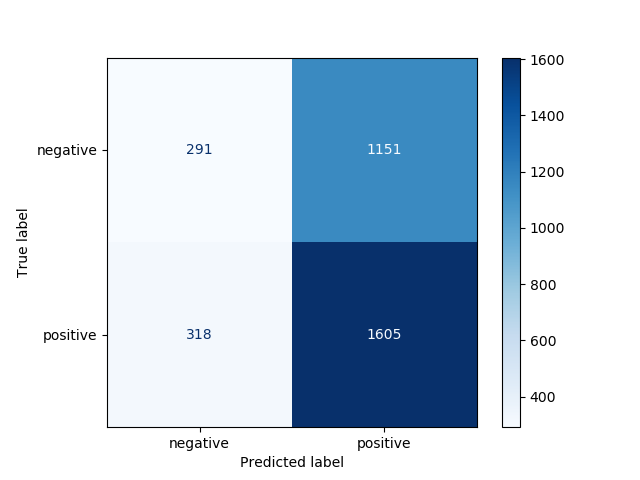
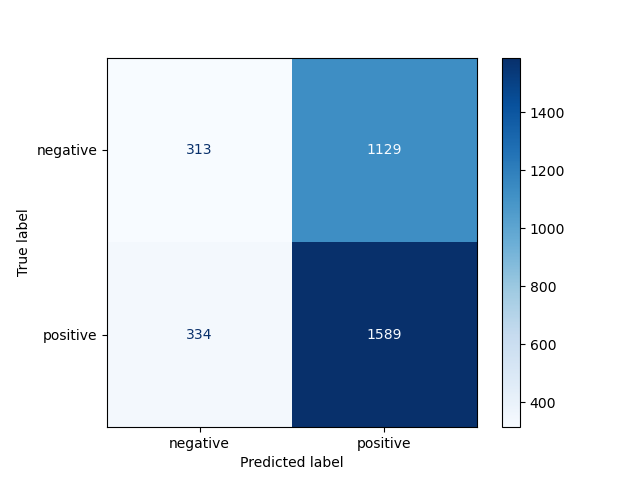
First final code state (hopefully the last..)

diff --git a/experiment-1/financial/test-ensemble-model.py b/experiment-1/financial/test-ensemble-model.py
@@ -172,24 +172,27 @@ def get_testing_data(dataset):
 
 
 if __name__ == '__main__':
-    dataset = 0 # TODO CHANGE IF YOU WANT TO TEST A DIFF DATASET
-    bilstm_input, ann_input, y_true = get_testing_data(dataset)
+
     print('preprocessing done.')
 
     filepath = 'experiment-1/models/binary_hybrid_larger.h5'
     ensemble_model = load_model(filepath=filepath)
-    print('loaded the model')
-    print(bilstm_input.shape)
-    print(ann_input.shape)
 
-    y_pred = ensemble_model.predict([bilstm_input, ann_input])
-    y_pred = [0 if pred[0] < 0.5 else 1 for pred in y_pred]
+    for dataset in range(0,3):
+        bilstm_input, ann_input, y_true = get_testing_data(dataset)
+        print('preprocessing done.')
+        print('loaded the model')
+        print(bilstm_input.shape)
+        print(ann_input.shape)
 
-    cm = confusion_matrix(y_true, y_pred)
-    display = ConfusionMatrixDisplay(confusion_matrix=cm, display_labels=['negative', 'positive'])
-    display.plot(cmap=plt.cm.Blues)
-    plt.savefig(f'experiment-1/financial/results/ensemble_model_financial{dataset}_confusion_matrix.png')
+        y_pred = ensemble_model.predict([bilstm_input, ann_input])
+        y_pred = [0 if pred[0] < 0.5 else 1 for pred in y_pred]
 
-    print("=== Classification Report ===")
-    print(classification_report(y_true, y_pred, zero_division=0), '\n')
+        cm = confusion_matrix(y_true, y_pred)
+        display = ConfusionMatrixDisplay(confusion_matrix=cm, display_labels=['negative', 'positive'])
+        display.plot(cmap=plt.cm.Blues)
+        plt.savefig(f'experiment-1/financial/results/ensemble/ensemble_model_financial{dataset}_confusion_matrix.png')
+
+        print("=== Classification Report ===")
+        print(classification_report(y_true, y_pred, zero_division=0), '\n')
 

diff --git a/README.md b/README.md
@@ -6,7 +6,7 @@ Initial Commit Grabbed from Code Ocean.. Adapted Dockerfile -> Conda environment
 
 ```shell
 conda env create -f environment.yml
-conda activate 635Proj
+conda activate 635ProjectGroup3
 ```
 This may take 10-15 minutes.
 
@@ -30,13 +30,101 @@ Aftewards run:
 If you aren't on linux, follow the quick command line install links at the bottom of this page.
 https://docs.anaconda.com/free/miniconda/index.html#latest-miniconda-installer-links
 
-# Data
+
+# Preprocessing Data
+All extra data that we used for this project is small enough to be version controlled, including all preprocessed files.
+
+Financial news is processed at runtime, the twitter dataset is processed prior. You can redo this preprocessing via running the notebook: experiment-1/tweets/preprocessingtweets.ipynb
+
+All data should be version controlled and therefore does not need to be re-processed. 
+
+# Data and Model downloads
 The data is too large to be stored on git. You must download it manually from my super cool awesome google drive. Wow!
 
-https://drive.google.com/drive/folders/19UZ1r7dx4vNYeFTAc1blgahwxlMmR_ig?usp=drive_link 
+https://drive.google.com/drive/folders/1JATZ8WxXtZSCohncTbGh3T1IZhap6XMb?usp=sharing
 
-(If you dont have access please ping me...)
+(If you dont have access please let us know)
+
+It contains 3 folders. 
+
+1) Data must go into the SOURCE directory.
+
+2) Move the contents from the folder named:  Experiment 1 Models into experiment-1/models
+
+3) Move the contents from the foler named: Experiment 2 Models into experiment-2/models
+
+## Can't Download? Generate the models:
 
 
-# Experiments
+In order to generated the binary_hybrid_larger.h5 model, run 
+```shell
+python3 code/train_binary_hybrid.py
+``` 
+it will save the model to: results/binary_hybrid_larger.h5 move the .h5 file into the experiment-1/models folder.
+
+In order to get ready for experiment 2... 
+Run the notebook: experiment-2/gensim_models.ipynb
+Then run: 
+```shell
+python3 experiment-2/train_at_lstm.py
+```
+
+Both of these may take 10 minutes to run.
+
+# Running the models and Experiments
+
+## Experiment 1
+
+### Twitter 
+
+May take 3-4 minutes to run.
+
+```shell
+python3 experiment-1/tweets/test-ensemble-model.py
+```
+
+Results saved to:  experiment-1/results/binary_tweets_hybrid_classified.png
+
+### Financial News
+
+May take 1-2 minutes to run.
+
+```shell
+python3 experiment-1/financial/test-ensemble-model.py
+```
+Results saved to: experiment-1/financial/results/ensemble
+
+
+## Experiment 2
+
+### AT-LSTM Training and Validation on Movie Reviews:
+
+This will run AND train the AT-LSTM model on movie reviews. Results saved to: experiment-2/results/atlstm_validation_confusion_matrix.png
+
+```shell
+python3 experiment-2/train_at_lstm.py
+```
+Results saved to: experiment-2/results/atlstm_validation_confusion_matrix.png
+
+
+### Twitter Dataset
+
+Tests the AT-LSTM on twitter dataset. 10,000 random entries.
+
+May take 3-5 minutes to run.
+
+```shell
+python3 experiment-2/test-atlstm-model_tweets.py
+```
+
+### Financial News Dataset
+
+Tests the AT-LSTM on Financial News dataset.
+
+May take 3-5 minutes to run.
+
+```shell
+python3 experiment-2/test-atlstm-model_financial.py
+```
+
 
